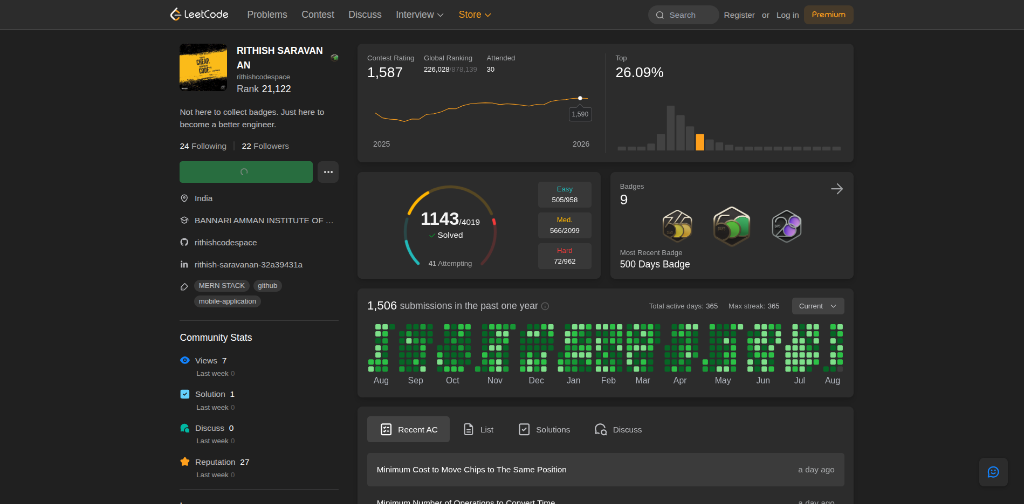
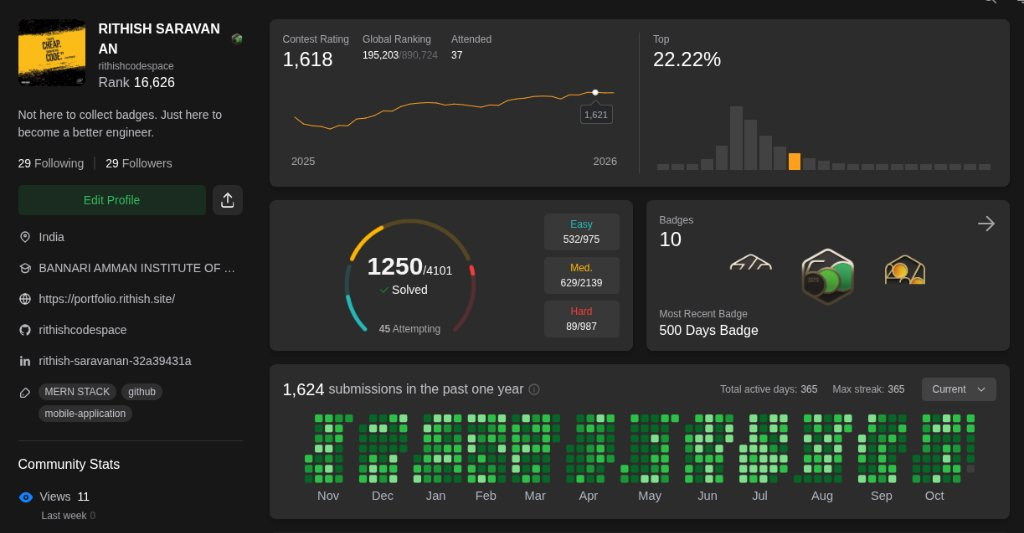
updated leetcode, acheivement and project progress

diff --git a/client/src/data/portfolioData.js b/client/src/data/portfolioData.js
@@ -291,6 +291,30 @@ export const portfolioData = {
 
     list: [
       {
+        fileName: 'ragforge',
+        title: 'RAGForge',
+        period: '2026',
+        icon: 'brain',
+        color: 'emerald',
+
+        bullets: [
+          'Engineered a production-style Retrieval-Augmented Generation application to answer questions across custom documents with high factual grounding and minimized hallucination.',
+          'Implemented a hybrid search pipeline combining dense semantic embeddings (sentence-transformers) and sparse keyword matching (BM25).',
+          'Integrated a cross-encoder BGE re-ranker model to re-score context chunks and forward only the highest-quality retrieved passages to the LLM (Groq).',
+          'Designed session-specific isolated document stores and query tracking so concurrent users stay isolated without requiring login.',
+          'Built comprehensive document ingestion (PDF, Word, TXT, Markdown, URLs) and evaluation benchmark tracking (MRR, Recall@k, NDCG, faithfulness).',
+        ],
+
+        techStack:
+          'FastAPI, Python, LangChain, ChromaDB, React, Vite, Groq LLM, BGE Reranker, BM25, Pytest',
+
+        image: '/images/ragforge.png',
+        liveUrl: 'https://ragforge.rithish.site',
+        repoUrl: 'https://github.com/rithishcodespace/RAGForge',
+        isHighlighted: true,
+      },
+
+      {
         fileName: 'humming-tone',
         title: 'Humming Tone',
         period: '2026',
@@ -515,16 +539,35 @@ export const portfolioData = {
 
     list: [
       {
-        fileName: 'leetcode_metrics.log',
+        fileName: 'odoo_hackathon_winner.json',
         step: '01',
+        icon: 'trophy',
+        value: 'WINNER',
+        label: 'Odoo x NMIT Bangalore Hackathon 2026',
+        tag: 'HACKATHON WINNER / 1ST RUNNER-UP',
+        category: 'NATIONAL HACKATHON',
+        badge: 'ODOO x NMIT 2026',
+        color: 'emerald',
+        details:
+          'Winner / 1st Runner-Up with ₹35,000 cash prize at Odoo x NMIT Bangalore Hackathon 2026, building enterprise-grade intelligent systems judged by industry experts from Odoo and NMIT.',
+        image: '/images/odoo_hackathon.jpg',
+        url: 'https://hackathon.odoo.com/event/odoo-x-nmit-bangalore-hackathon-2026-38/register',
+        urlLabel: 'VIEW EVENT ON ODOO',
+        urlDisplay: 'hackathon.odoo.com/event/odoo-x-nmit-bangalore-hackathon-2026-38',
+      },
+
+      {
+        fileName: 'leetcode_metrics.log',
+        step: '02',
         icon: 'code',
-        value: '1000+',
+        value: '1250+',
         label: 'DSA problems solved on LeetCode',
         tag: 'PROBLEM SOLVING MILESTONE',
         category: 'ALGORITHMS & DATA STRUCTURES',
         badge: 'LEETCODE PROFILE',
-        color: 'emerald',
-        details: 'Optimized time & space complexities across arrays, trees, graphs, dynamic programming, and system design algorithms.',
+        color: 'amber',
+        details:
+          'Solved 1,250+ problems (532 Easy, 629 Medium, 89 Hard) with a Contest Rating of 1,618 (Top 22%), 500 Days Badge, and 365 days max streak.',
         image: '/images/leetcode.png',
         url: 'https://leetcode.com/u/rithishcodespace',
         urlLabel: 'VIEW LEETCODE PROFILE',
@@ -533,7 +576,7 @@ export const portfolioData = {
 
       {
         fileName: 'eslint_underflow_fix.json',
-        step: '02',
+        step: '03',
         icon: 'git-pull-request',
         value: 'OPEN SOURCE',
         label: 'ESLint Core Contributor',
@@ -551,7 +594,7 @@ export const portfolioData = {
 
       {
         fileName: 'ieee_devspark_result.conf',
-        step: '03',
+        step: '04',
         icon: 'award',
         value: '1st PLACE',
         label: 'Place at IEEE DevSpark Hackathon',
@@ -565,7 +608,7 @@ export const portfolioData = {
 
       {
         fileName: 'bit_hackathon_award.log',
-        step: '04',
+        step: '05',
         icon: 'trophy',
         value: '1st PLACE',
         label: 'Place at BIT Hackathon',
@@ -579,7 +622,7 @@ export const portfolioData = {
 
       {
         fileName: 'sns_ideathon_runnerup.json',
-        step: '05',
+        step: '06',
         icon: 'medal',
         value: 'RUNNER-UP',
         label: 'SNS Ideathon',
@@ -593,7 +636,7 @@ export const portfolioData = {
 
       {
         fileName: 'code_with_curious_first_place.json',
-        step: '06',
+        step: '07',
         icon: 'trophy',
         value: '1ST PLACE',
         label: 'Code With Curious',

diff --git a/client/src/components/Projects.jsx b/client/src/components/Projects.jsx
@@ -14,6 +14,8 @@ import {
   Terminal,
   Code,
   Image as ImageIcon,
+  Brain,
+  ExternalLink,
 } from 'lucide-react';
 import { GithubIcon } from './Icons';
 
@@ -65,6 +67,8 @@ const Projects = () => {
         return <Users className="w-6 h-6 text-[#00e5ff]" />;
       case 'tv':
         return <Tv className="w-6 h-6 text-purple-400" />;
+      case 'brain':
+        return <Brain className="w-6 h-6 text-[#00ff9d]" />;
       default:
         return <Code className="w-6 h-6 text-[#00ff9d]" />;
     }
@@ -321,20 +325,38 @@ const ProjectCardContent = ({ proj, isPeeking, renderProjectIcon, getTitleColor 
 
       {/* Bottom Action Button */}
       {!isPeeking && (
-        <div className="pt-2.5 sm:pt-3 border-t border-slate-800/80 mt-auto flex items-center justify-between shrink-0">
-          <a
-            href={proj.repoUrl}
-            target="_blank"
-            rel="noopener noreferrer"
-            onClick={(e) => e.stopPropagation()}
-            className={`font-mono text-xs sm:text-sm font-bold px-3.5 sm:px-4.5 py-2 sm:py-2.5 rounded-lg flex items-center gap-2 border transition-all duration-200 ${isHighlighted
-                ? 'bg-[#00ff9d] text-black border-[#00ff9d] hover:bg-[#00ff9d]/90 shadow-[0_0_15px_rgba(0,255,157,0.4)]'
-                : 'bg-[#081518] border-[#00ff9d]/40 text-[#00ff9d] hover:bg-[#00ff9d] hover:text-black hover:border-[#00ff9d]'
-              }`}
-          >
-            <GithubIcon className="w-4 h-4" />
-            <span>EXPLORE REPOSITORY</span>
-          </a>
+        <div className="pt-2.5 sm:pt-3 border-t border-slate-800/80 mt-auto flex items-center justify-between flex-wrap gap-2 shrink-0">
+          <div className="flex items-center gap-2 flex-wrap">
+            {proj.liveUrl && (
+              <a
+                href={proj.liveUrl.startsWith('http') ? proj.liveUrl : `https://${proj.liveUrl}`}
+                target="_blank"
+                rel="noopener noreferrer"
+                onClick={(e) => e.stopPropagation()}
+                className="font-mono text-xs sm:text-sm font-bold px-3.5 sm:px-4 py-2 sm:py-2.5 rounded-lg flex items-center gap-2 border bg-[#00ff9d] text-black border-[#00ff9d] hover:bg-[#00ff9d]/90 shadow-[0_0_15px_rgba(0,255,157,0.4)] transition-all duration-200 cursor-pointer"
+              >
+                <ExternalLink className="w-4 h-4" />
+                <span>LIVE DEMO</span>
+              </a>
+            )}
+
+            {proj.repoUrl && proj.repoUrl !== '#' && (
+              <a
+                href={proj.repoUrl}
+                target="_blank"
+                rel="noopener noreferrer"
+                onClick={(e) => e.stopPropagation()}
+                className={`font-mono text-xs sm:text-sm font-bold px-3.5 sm:px-4.5 py-2 sm:py-2.5 rounded-lg flex items-center gap-2 border transition-all duration-200 cursor-pointer ${
+                  !proj.liveUrl && isHighlighted
+                    ? 'bg-[#00ff9d] text-black border-[#00ff9d] hover:bg-[#00ff9d]/90 shadow-[0_0_15px_rgba(0,255,157,0.4)]'
+                    : 'bg-[#081518] border-[#00ff9d]/40 text-[#00ff9d] hover:bg-[#00ff9d] hover:text-black hover:border-[#00ff9d]'
+                }`}
+              >
+                <GithubIcon className="w-4 h-4" />
+                <span>EXPLORE REPOSITORY</span>
+              </a>
+            )}
+          </div>
 
           <span className="text-[10px] text-slate-500 font-mono hidden sm:inline">
             [REVISION: MAIN]

diff --git a/server/src/services/assistant.service.js b/server/src/services/assistant.service.js
@@ -80,9 +80,34 @@ Distributed Systems & Databases:
 Cloud & DevOps:
   AWS EC2/S3, Docker, Kubernetes, Helm, GitHub Actions, Prometheus`;
   }
+  if (q.includes('ragforge') || q.includes('rag')) {
+    return `RAGForge
+--------
+Production-style full-stack Retrieval-Augmented Generation application.
+
+Key features:
+  - Hybrid search: BM25 sparse keyword matching + sentence-transformers dense search
+  - Cross-encoder BGE re-ranking for maximum context precision
+  - Session-isolated document stores and query tracking without login
+  - Citation-aware answers with benchmark evaluation (MRR, Recall@k, NDCG)
+
+Tech stack:
+  FastAPI      Python       LangChain
+  ChromaDB     Groq LLM     React + Vite
+  Pytest       BM25         BGE Reranker
+
+Live Demo: https://ragforge.rithish.site
+Repo:      https://github.com/rithishcodespace/RAGForge`;
+  }
   if (q.includes('project') || q.includes('built')) {
     return `Featured Projects
 -----------------
+RAGForge (2026)
+  Production-style full-stack RAG app with hybrid search & BGE reranker.
+  Tech: FastAPI, Python, LangChain, ChromaDB, React, Groq LLM
+  Live: https://ragforge.rithish.site
+  Repo: https://github.com/rithishcodespace/RAGForge
+
 DB Backup CLI (2026)
   Cross-platform CLI tool for automated multi-database backups.
   Tech: TypeScript, Redis, BullMQ, AWS S3, Docker
@@ -92,9 +117,10 @@ Humming Tone (2026)
   Production e-commerce platform with RBAC & Redis caching.
   Tech: Node.js, TypeScript, PostgreSQL, Redis, Docker, AWS
 
-PatentIQ (2026)
-  AI patent prior-art semantic search with vector embeddings.
-  Tech: Python, FastAPI, PostgreSQL, Vector DB, LLMs`;
+AskDB (2026)
+  AI natural-language database assistant via MCP and LangGraph.
+  Tech: Python, LangGraph, MCP, SQLAlchemy
+  Repo: https://github.com/rithishcodespace/AskDB`;
   }
   if (q.includes('contact') || q.includes('email') || q.includes('hire') || q.includes('reach')) {
     return `Contact Information
@@ -119,10 +145,20 @@ PR: https://github.com/eslint/eslint/pull/21218`;
 - Implemented secure RESTful APIs for authentication and user workflows.
 - Mentored 50+ students in backend development and software engineering.`;
   }
-  if (q.includes('achievement') || q.includes('award') || q.includes('hackathon')) {
+  if (q.includes('odoo')) {
+    return `Odoo x NMIT Bangalore Hackathon 2026
+-----------------------------------
+Award:       Winner / 1st Runner-Up (₹35,000 cash prize)
+Event:       National Level Enterprise Hackathon
+Organizers:  Odoo in partnership with NMIT Bangalore & DataWiz
+Team:        Deepak, Thirumurugam, Rithish, Hemanth
+Event Link:  https://hackathon.odoo.com/event/odoo-x-nmit-bangalore-hackathon-2026-38/register`;
+  }
+  if (q.includes('achievement') || q.includes('award') || q.includes('hackathon') || q.includes('leetcode')) {
     return `Achievements & Honors
 ---------------------
-- 1000+ DSA problems solved on LeetCode
+- Winner / 1st Runner-Up: Odoo x NMIT Bangalore Hackathon 2026 (₹35,000 cash prize)
+- 1250+ DSA problems solved on LeetCode (Rating 1618, 500 Days Badge, 365-day streak)
 - ESLint Core Contributor (Merged PR #21218)
 - 1st Place: IEEE DevSpark National Hackathon (₹10,000 cash prize)
 - 1st Place: BIT Hackathon (₹3,000 cash prize)

diff --git a/client/src/components/Achievements.jsx b/client/src/components/Achievements.jsx
@@ -141,7 +141,7 @@ const Achievements = () => {
   };
 
   return (
-    <section ref={targetRef} id="achievements" className="relative h-[280vh] sm:h-[320vh] font-mono">
+    <section ref={targetRef} id="achievements" className="relative h-[340vh] sm:h-[380vh] font-mono">
       {/* Sticky Viewport pinned while scrolling vertically */}
       <div className="sticky top-0 h-screen overflow-hidden flex flex-col justify-between py-6 sm:py-10 px-4 sm:px-8 max-w-7xl mx-auto z-10 select-none">
         
